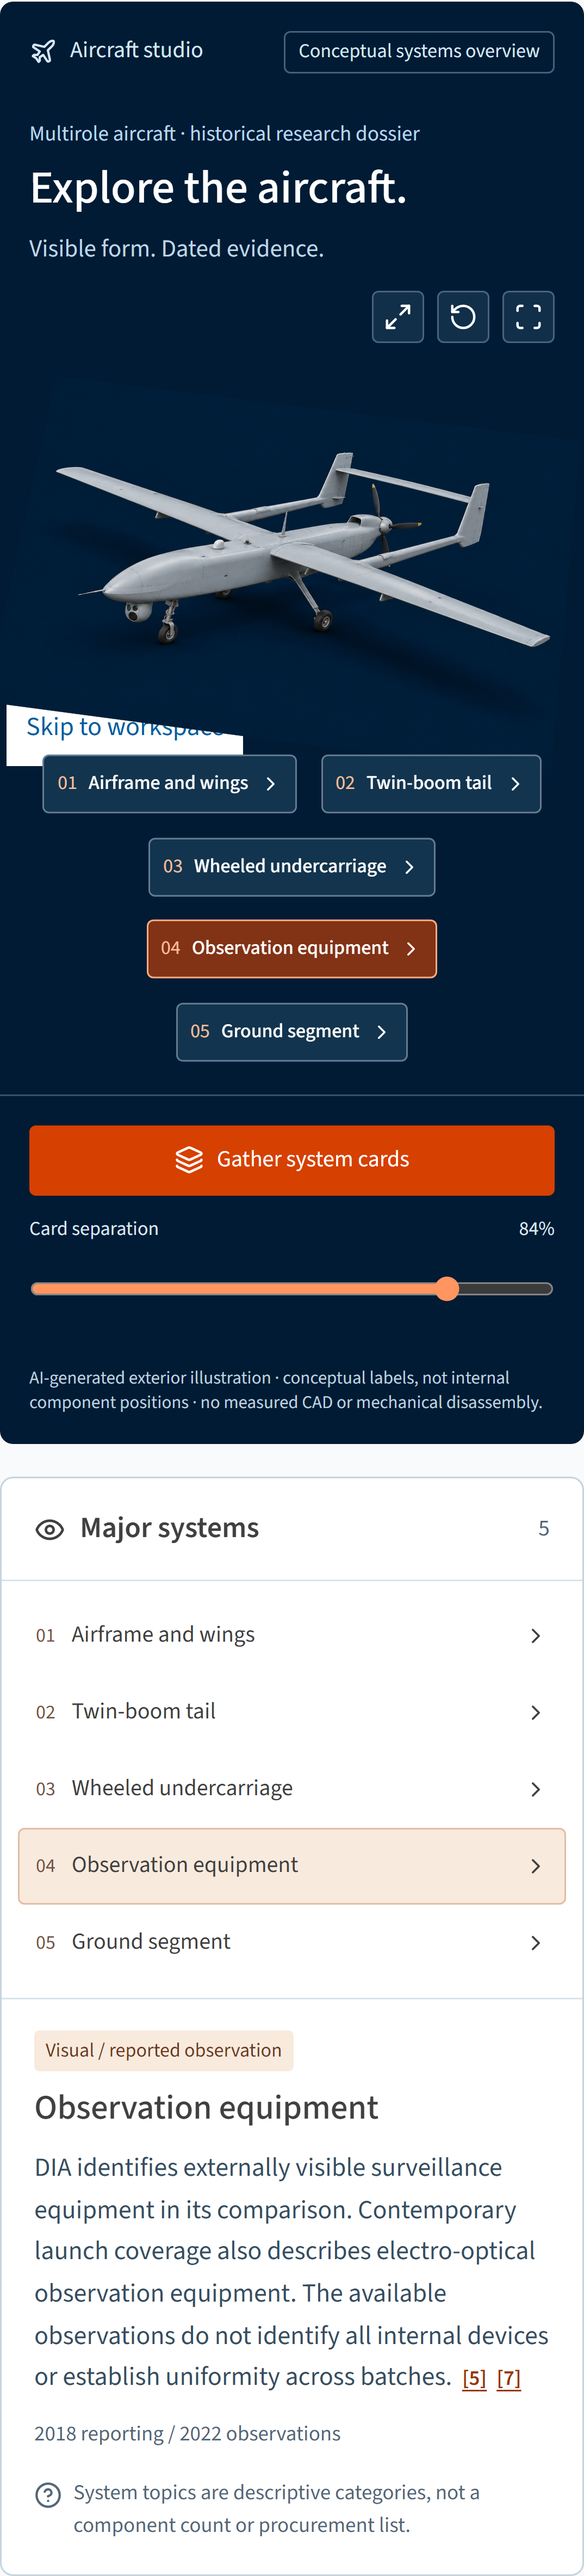
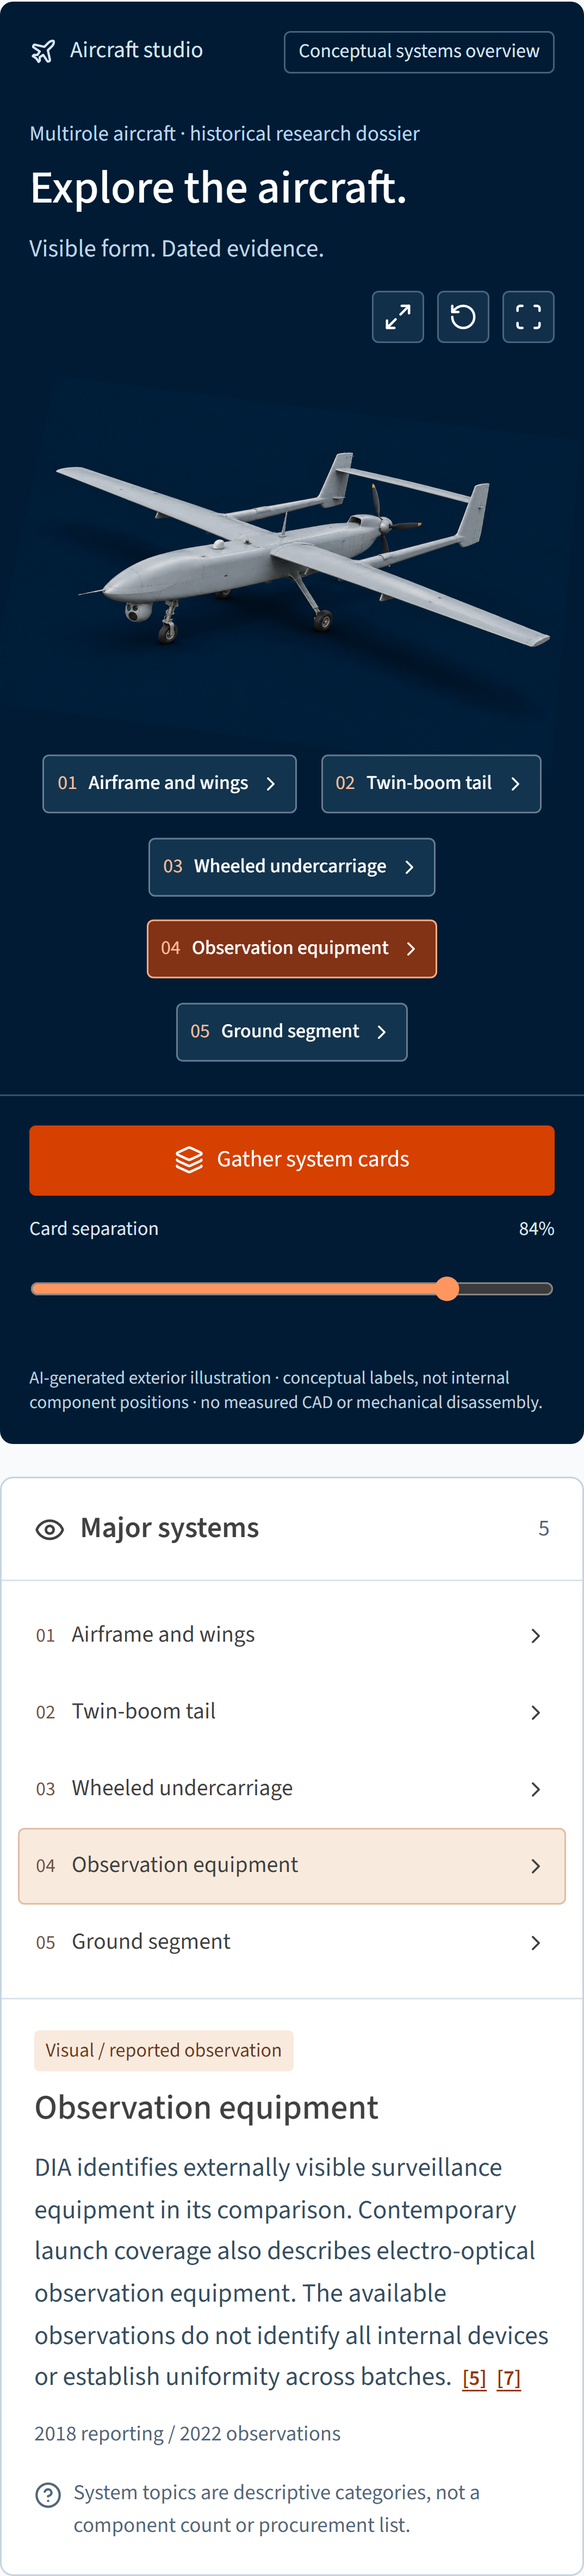
Keep the unfocused skip link out of mobile captures (#11)

Changed region(s): [[0.0, 0.2486, 0.4302, 0.3107]]

diff --git a/tests/workspace.spec.ts b/tests/workspace.spec.ts
@@ -119,6 +119,15 @@ test('keyboard, responsive overflow and accessibility', async ({
   page,
 }, info) => {
   await page.goto('/?view=network');
+  const skipLink = page.getByRole('link', { name: 'Skip to workspace' });
+  await expect(skipLink).toHaveCSS('opacity', '0');
+  await page.keyboard.press('Tab');
+  await expect(skipLink).toBeFocused();
+  await expect(skipLink).toHaveCSS('opacity', '1');
+  await expect(skipLink).toBeInViewport();
+  await page.keyboard.press('Enter');
+  await expect(page).toHaveURL(/#workspace$/);
+  await expect(skipLink).toHaveCSS('opacity', '0');
   await page
     .getByRole('heading', { name: 'A connected view of your product' })
     .waitFor();

diff --git a/app/globals.css b/app/globals.css
@@ -143,6 +143,7 @@ svg {
 .skip-link {
   position: fixed;
   top: -80px;
+  opacity: 0;
   left: 20px;
   z-index: 100;
   background: white;
@@ -150,6 +151,7 @@ svg {
 }
 .skip-link:focus {
   top: 10px;
+  opacity: 1;
 }
 .brand {
   height: 78px;
